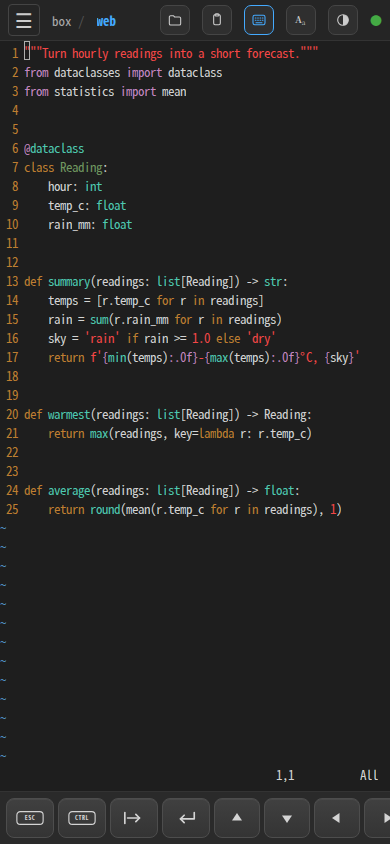
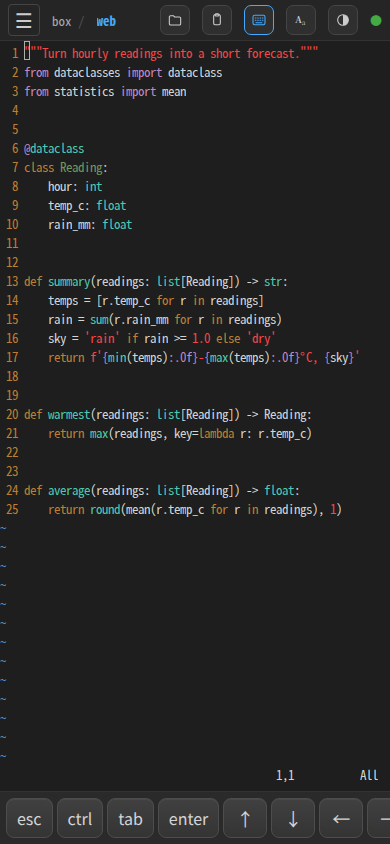
Name the virtual keys in words, in the system's UI font
The bottom bar drew ESC and CTRL as 8px capitals inside a second frame
within the button, and Tab, Enter and the arrows as small glyphs. The
keys now read esc, ctrl, tab, enter and ← ↑ ↓ → at 16px in the
system's UI face, as a phone keyboard's accessory row does, each still
in its own box. Each key is as wide as its name (44px at least, to stay
easy to hit); keys that don't fit scroll the bar sideways, so keys can
be added later without squeezing the others. The README's phone
screenshot shows the new bar.

diff --git a/static/index.html b/static/index.html
@@ -124,51 +124,14 @@
 
     <!-- ── Bottom Bar (touch devices by default; configurable) ──────── -->
     <div id="bottombar">
-      <button class="vkey icon-btn key-wide" data-key="esc" type="button" aria-label="Escape" title="Escape">
-        <svg viewBox="0 0 40 24" aria-hidden="true">
-          <rect x="2.5" y="3.5" width="35" height="17" rx="4.5" fill="none" stroke="currentColor" stroke-width="1.5"/>
-          <text x="20" y="15.2" text-anchor="middle">ESC</text>
-        </svg>
-      </button>
-      <button id="ctrl-toggle" class="icon-btn key-wide" type="button" aria-label="Control" title="Control">
-        <svg viewBox="0 0 40 24" aria-hidden="true">
-          <rect x="2.5" y="3.5" width="35" height="17" rx="4.5" fill="none" stroke="currentColor" stroke-width="1.5"/>
-          <text x="20" y="15.2" text-anchor="middle">CTRL</text>
-        </svg>
-      </button>
-      <button class="vkey icon-btn key-wide" data-key="tab" type="button" aria-label="Tab" title="Tab">
-        <svg viewBox="0 0 32 24" aria-hidden="true">
-          <path d="M6 6v12" fill="none" stroke="currentColor" stroke-width="1.8" stroke-linecap="round"/>
-          <path d="M9 12h13" fill="none" stroke="currentColor" stroke-width="1.8" stroke-linecap="round"/>
-          <path d="M18 8l4 4-4 4" fill="none" stroke="currentColor" stroke-width="1.8" stroke-linecap="round" stroke-linejoin="round"/>
-        </svg>
-      </button>
-      <button class="vkey icon-btn key-wide" data-key="enter" type="button" aria-label="Enter" title="Enter">
-        <svg viewBox="0 0 32 24" aria-hidden="true">
-          <path d="M25 6v7H10" fill="none" stroke="currentColor" stroke-width="1.8" stroke-linecap="round" stroke-linejoin="round"/>
-          <path d="M14 9l-4 4 4 4" fill="none" stroke="currentColor" stroke-width="1.8" stroke-linecap="round" stroke-linejoin="round"/>
-        </svg>
-      </button>
-      <button class="vkey icon-btn" data-key="up" type="button" aria-label="Up" title="Up">
-        <svg viewBox="0 0 24 24" aria-hidden="true">
-          <path d="M12 6l6 9H6z" fill="currentColor"/>
-        </svg>
-      </button>
-      <button class="vkey icon-btn" data-key="down" type="button" aria-label="Down" title="Down">
-        <svg viewBox="0 0 24 24" aria-hidden="true">
-          <path d="M12 18l-6-9h12z" fill="currentColor"/>
-        </svg>
-      </button>
-      <button class="vkey icon-btn" data-key="left" type="button" aria-label="Left" title="Left">
-        <svg viewBox="0 0 24 24" aria-hidden="true">
-          <path d="M6 12l9-6v12z" fill="currentColor"/>
-        </svg>
-      </button>
-      <button class="vkey icon-btn" data-key="right" type="button" aria-label="Right" title="Right">
-        <svg viewBox="0 0 24 24" aria-hidden="true">
-          <path d="M18 12l-9 6V6z" fill="currentColor"/>
-        </svg>
-      </button>
+      <button class="vkey" data-key="esc" type="button" aria-label="Escape" title="Escape">esc</button>
+      <button id="ctrl-toggle" type="button" aria-label="Control" title="Control">ctrl</button>
+      <button class="vkey" data-key="tab" type="button" aria-label="Tab" title="Tab">tab</button>
+      <button class="vkey" data-key="enter" type="button" aria-label="Enter" title="Enter">enter</button>
+      <button class="vkey key-arrow" data-key="up" type="button" aria-label="Up" title="Up">↑</button>
+      <button class="vkey key-arrow" data-key="down" type="button" aria-label="Down" title="Down">↓</button>
+      <button class="vkey key-arrow" data-key="left" type="button" aria-label="Left" title="Left">←</button>
+      <button class="vkey key-arrow" data-key="right" type="button" aria-label="Right" title="Right">→</button>
     </div>
 
     <!-- iOS cannot expose Paste on xterm's off-screen input textarea. -->

diff --git a/static/style.css b/static/style.css
@@ -948,16 +948,20 @@ html.virtual-keyboard-visible #bottombar {
 }
 
 #bottombar button {
+  /* Each key as wide as its name; keys that don't fit scroll the bar. */
   flex: 0 0 auto;
-  min-width: 46px;
+  min-width: 44px;
   height: 40px;
-  padding: 0 8px;
+  padding: 0 10px;
   color: var(--text-near);
   background: var(--btn-bar-bg);
   border: 1px solid var(--btn-bar-border);
   border-radius: 8px;
-  font-family: inherit;
-  font-size: 13px;
+  /* Key names in the system's UI face, as on a phone keyboard: the
+     terminal's monospace reads small and wide at this size. */
+  font-family: -apple-system, BlinkMacSystemFont, "Segoe UI", system-ui, sans-serif;
+  font-size: 16px;
+  line-height: 1;
   cursor: pointer;
   touch-action: manipulation;
   display: inline-flex;
@@ -967,29 +971,7 @@ html.virtual-keyboard-visible #bottombar {
 }
 #bottombar button:active { background: var(--btn-bar-bg-active); }
 #bottombar button.active { background: var(--accent); color: var(--accent-fg); border-color: var(--accent); box-shadow: none; }
-
-#bottombar .icon-btn.key-wide { min-width: 48px; }
-
-#bottombar .icon-btn svg {
-  width: 20px;
-  height: 20px;
-  display: block;
-  overflow: visible;
-}
-
-#bottombar .icon-btn.key-wide svg {
-  width: 30px;
-  height: 22px;
-}
-
-#bottombar .icon-btn text {
-  fill: currentColor;
-  font-family: inherit;
-  font-size: 8px;
-  font-weight: 700;
-  letter-spacing: .08em;
-  text-transform: uppercase;
-}
+#bottombar .key-arrow { font-size: 18px; }
 
 .sheet {
   position: absolute;
